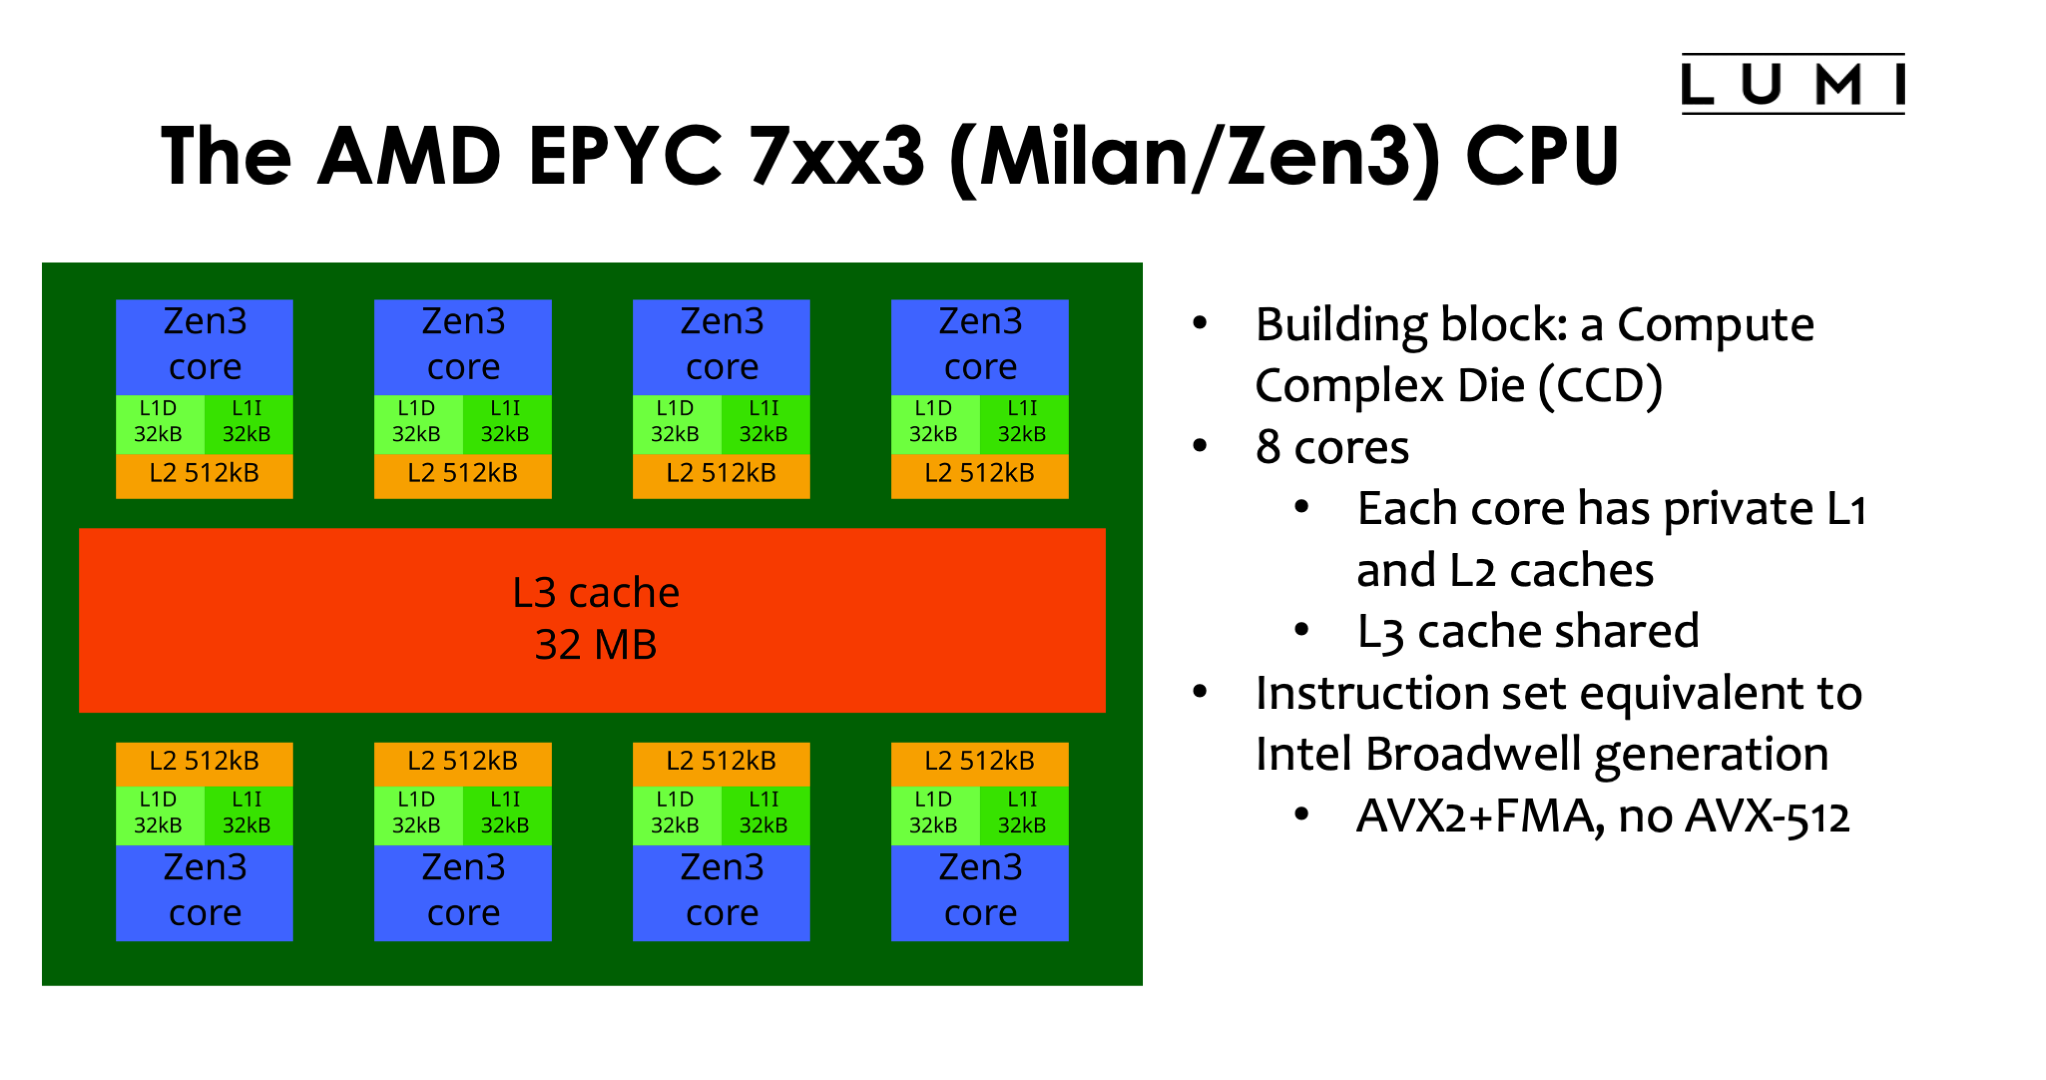
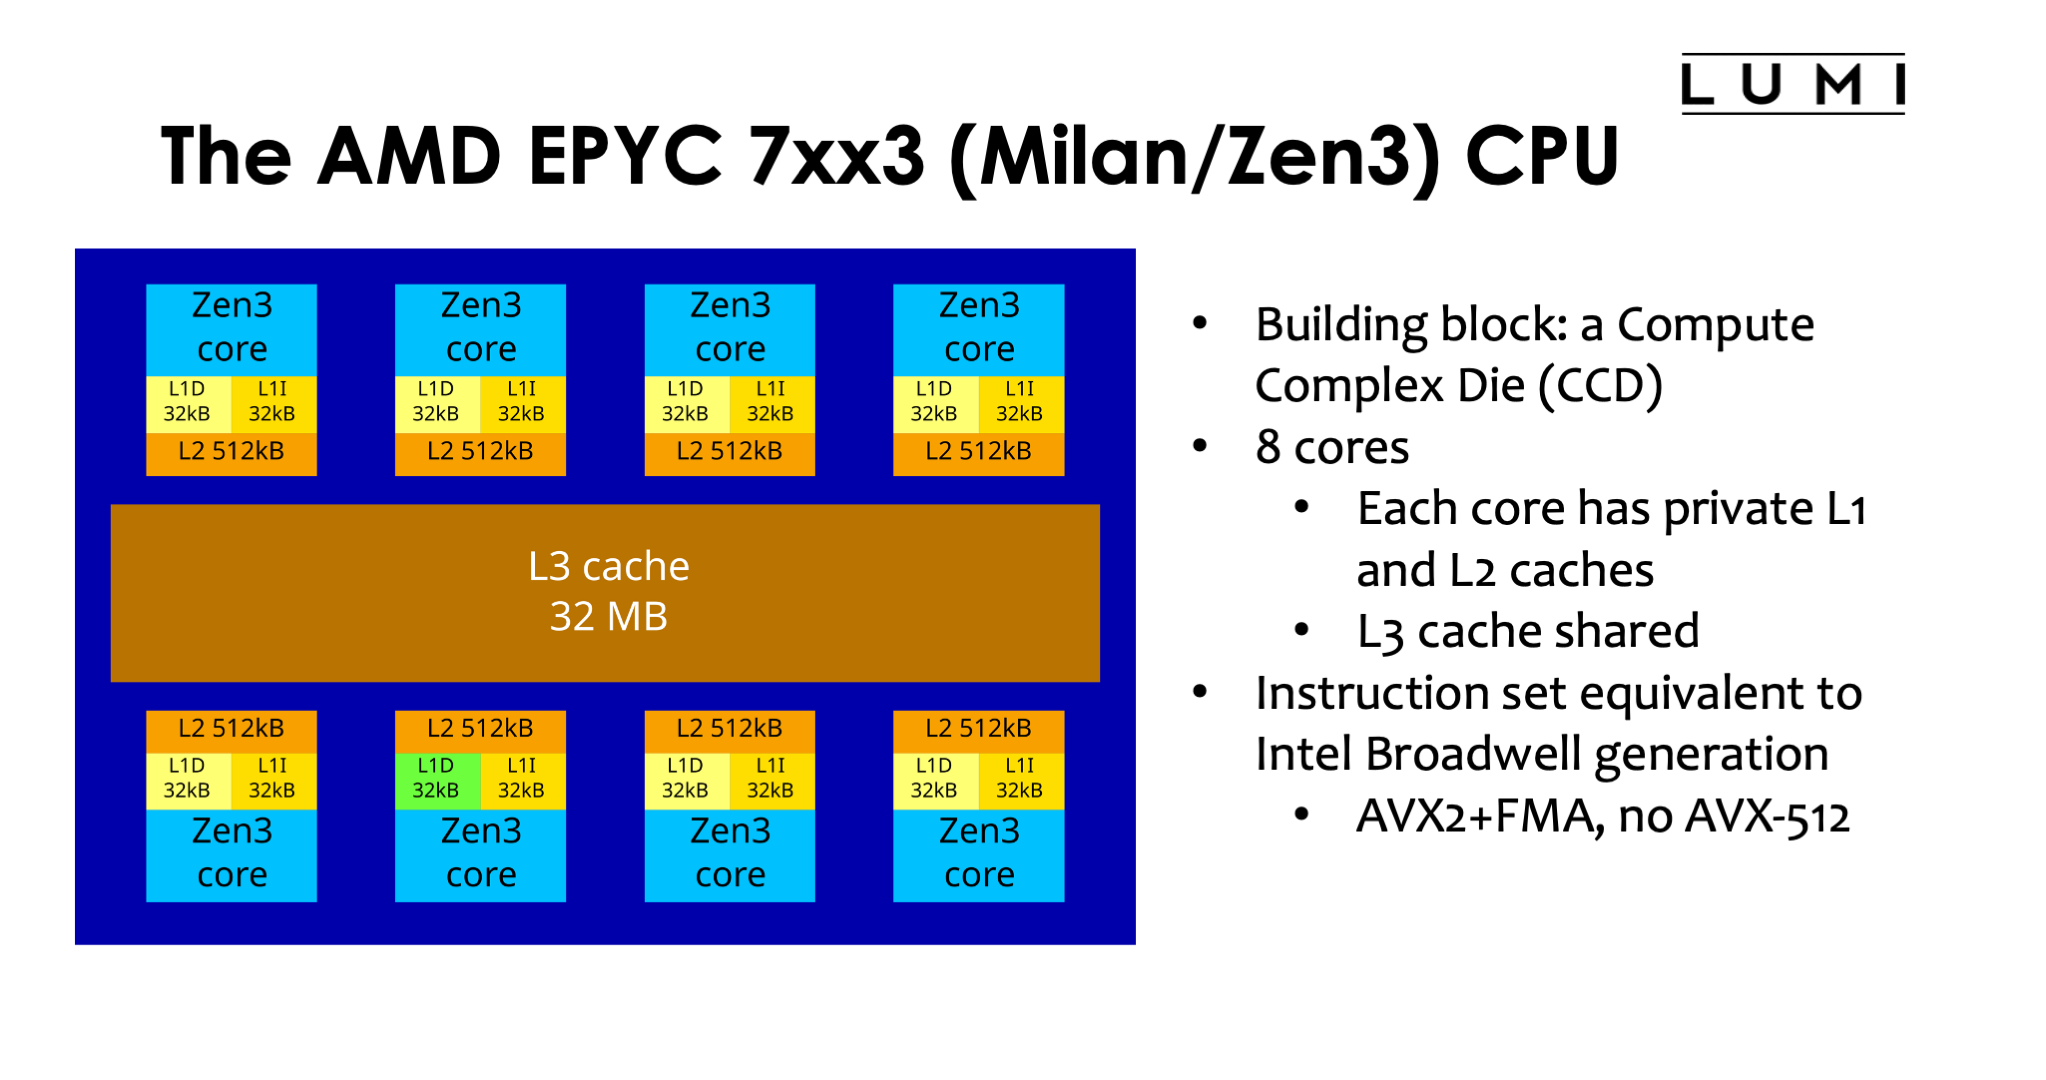
Improvements to some of the colour pics for colourblind people, and an additional slide for the architecture part showing LUMI.

diff --git a/docs/1day-20230321/01_Architecture.md b/docs/1day-20230321/01_Architecture.md
@@ -518,3 +518,28 @@ one could, e.g., export PCIe ports to the back and attach, e.g., PCIe-based stor
 switch blade environment is certainly less hostile to such storage than the very dense and very hot
 compute blades.
 
+
+## LUMI assembled
+
+<figure markdown style="border: 1px solid #000">
+  ![Slide LUMI](img/LUMI-1day-20230321-architecture/Dia13.png){ loading=lazy }
+</figure>
+
+This slide shows LUMI fully assembled (as least as it was at the end of 2022).
+
+At the front there are 5 rows of cabinets similar to the ones in the exploded Cray EX picture 
+on the previous slide.
+Each row has 2 CDUs and 6 cabinets with compute nodes. 
+The first row, the one with the wolve, contains all nodes of LUMI-C, while the other four 
+rows, with the letters of LUMI, contain the GPU accelerator nodes.
+At the back of the room there are more 
+regular server racks that house the storage, management nodes, some special compute nodes , etc.
+The total size is roughly the size of a tennis court. 
+
+!!! Remark
+    The water temperature that a system like the Cray EX can handle is so high that in fact the water can
+    be cooled again with so-called "free cooling", by just radiating the heat to the environment rather 
+    than using systems with compressors similar to air conditioning systems, especially in regions with a
+    colder climate. The LUMI supercomputer is housed in Kajaani in Finland, with moderate temperature almost 
+    year round, and the heat produced by the supercomputer is fed into the central heating system of the
+    city, making it one of the greenest supercomputers in the world as it is also fed with renewable energy.
